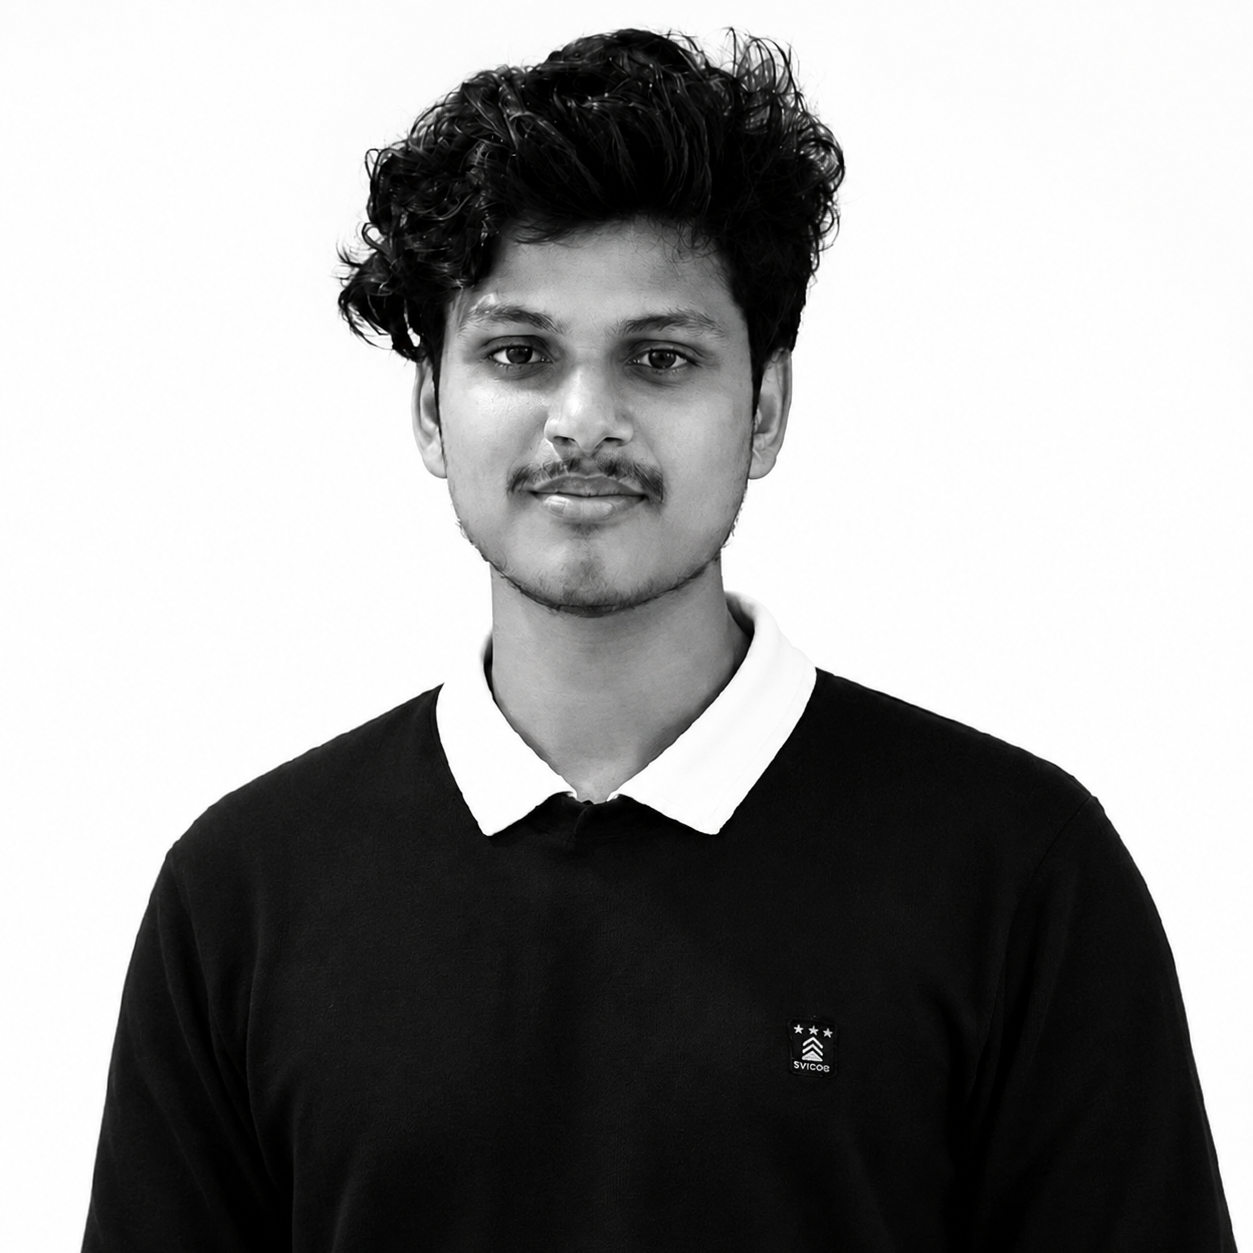
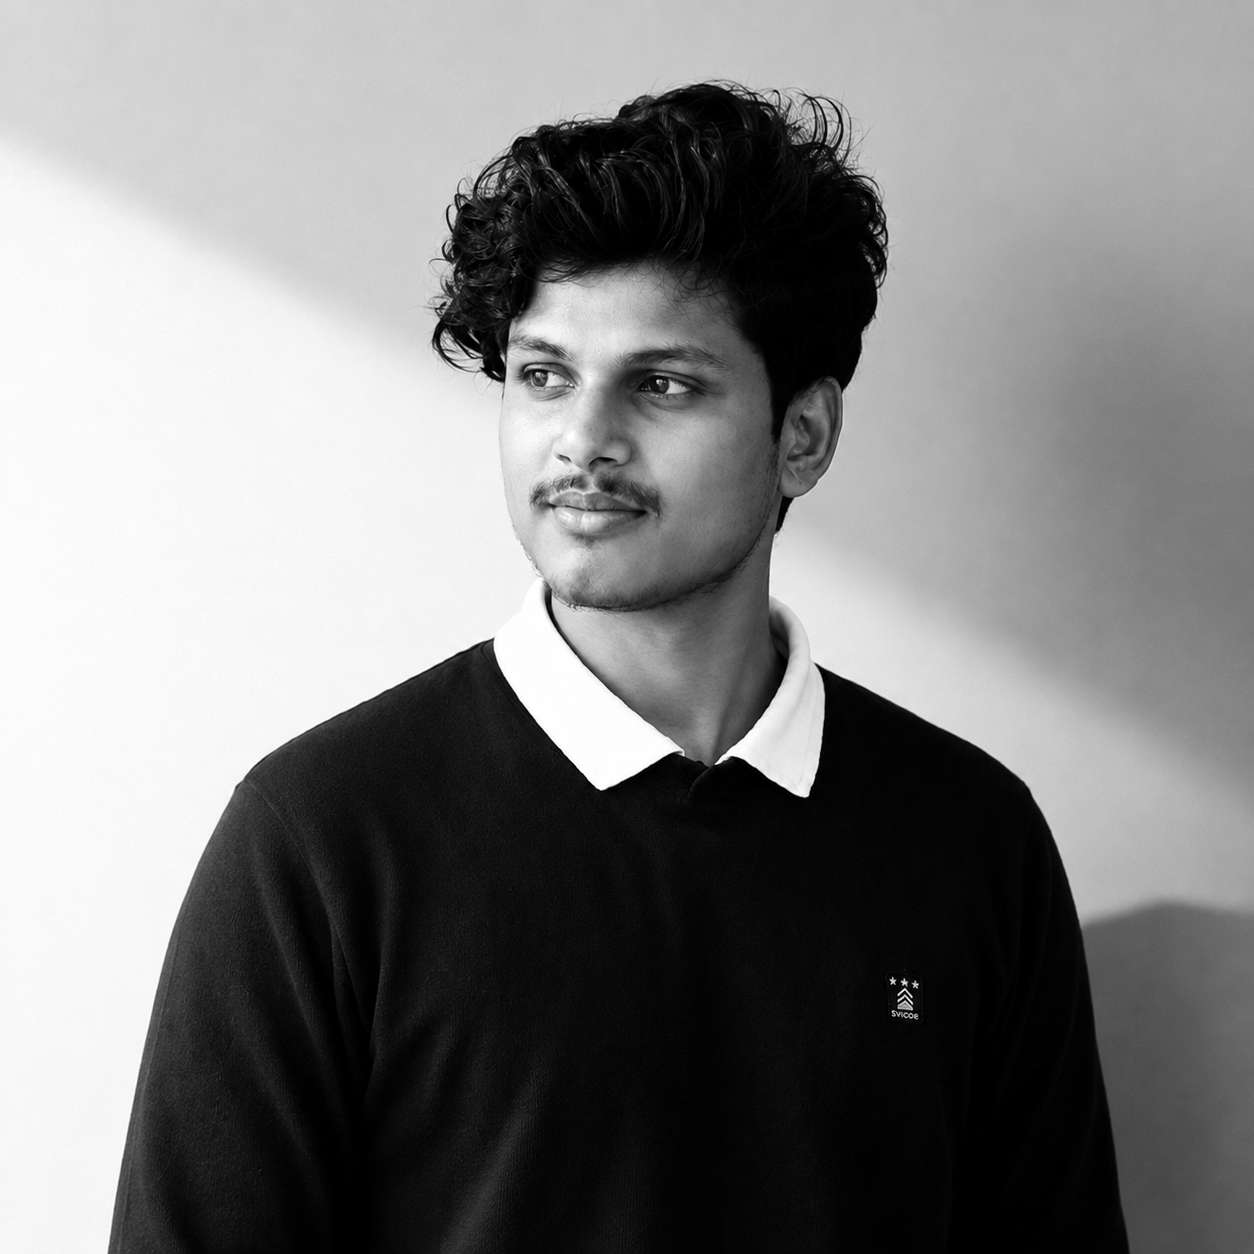
style: refine contact image frame and responsive project image sizing

diff --git a/components/ProjectSection.tsx b/components/ProjectSection.tsx
@@ -168,7 +168,7 @@ function AppFrame({ src, title, cardIndex, fromFront, isDesktop, sectionIndex }:
     <div
       className={[
         'absolute inset-0 overflow-hidden shadow-2xl border-2 border-white/10',
-        isDesktop ? 'rounded-[2.8rem]' : 'rounded-[1.8rem]',
+        isDesktop ? 'rounded-[2.2rem]' : 'rounded-[1.2rem]',
       ].join(' ')}
       style={{
         transform: stackTransform(fromFront),
@@ -179,14 +179,14 @@ function AppFrame({ src, title, cardIndex, fromFront, isDesktop, sectionIndex }:
     >
       {/* Notch */}
       <div
-        className={`absolute top-0 left-1/2 -translate-x-1/2 z-10 bg-black ${isDesktop ? 'w-[72px] h-2.5 rounded-b-2xl' : 'w-[52px] h-1.5 rounded-b-xl'
+        className={`absolute top-0 left-1/2 -translate-x-1/2 z-10 bg-black ${isDesktop ? 'w-[60px] h-2 rounded-b-xl' : 'w-[36px] h-1.5 rounded-b-lg'
           }`}
       />
       {/* Volume buttons */}
-      <div className={`absolute rounded-full bg-white/20 ${isDesktop ? '-left-2.5 top-[100px] w-1 h-9' : '-left-2 top-20 w-[3px] h-7'}`} />
-      <div className={`absolute rounded-full bg-white/20 ${isDesktop ? '-left-2.5 top-[148px] w-1 h-9' : '-left-2 top-[116px] w-[3px] h-7'}`} />
+      <div className={`absolute rounded-full bg-white/20 ${isDesktop ? '-left-2 top-[80px] w-1 h-7' : '-left-1.5 top-14 w-[2px] h-5'}`} />
+      <div className={`absolute rounded-full bg-white/20 ${isDesktop ? '-left-2 top-[120px] w-1 h-7' : '-left-1.5 top-20 w-[2px] h-5'}`} />
       {/* Power button */}
-      <div className={`absolute rounded-full bg-white/20 ${isDesktop ? '-right-2.5 top-[120px] w-1 h-13' : '-right-2 top-24 w-[3px] h-10'}`} />
+      <div className={`absolute rounded-full bg-white/20 ${isDesktop ? '-right-2 top-[100px] w-1 h-10' : '-right-1.5 top-16 w-[2px] h-6'}`} />
       {/* Screen */}
       <div className="relative w-full h-full bg-black">
         <Image
@@ -194,7 +194,7 @@ function AppFrame({ src, title, cardIndex, fromFront, isDesktop, sectionIndex }:
           alt={`${title} screenshot ${cardIndex + 1}`}
           fill
           className="object-cover object-top"
-          sizes={isDesktop ? '220px' : '28vw'}
+          sizes={isDesktop ? '200px' : '28vw'}
           priority={sectionIndex === 0 && cardIndex === 0}
         />
       </div>
@@ -209,7 +209,7 @@ function AppFrame({ src, title, cardIndex, fromFront, isDesktop, sectionIndex }:
 function WebFrame({ src, title, cardIndex, fromFront, liveUrl, isDesktop, sectionIndex }: CardProps) {
   return (
     <div
-      className={`absolute inset-0 overflow-hidden shadow-2xl ${isDesktop ? 'rounded-2xl' : 'rounded-xl'}`}
+      className={`absolute inset-0 overflow-hidden shadow-2xl ${isDesktop ? 'rounded-2xl' : 'rounded-lg'}`}
       style={{
         transform: stackTransform(fromFront),
         transformOrigin: 'bottom center',
@@ -261,21 +261,22 @@ function ImageStack({ stackRef, images, title, liveUrl, type, isDesktop, section
   const count = sliced.length;
 
   const cardW = isDesktop
-    ? (type === 'app' ? 220 : 480)
-    : (type === 'app' ? 140 : 280);
+    ? (type === 'app' ? 200 : 480)
+    : (type === 'app' ? 100 : 260);
   const cardH = isDesktop
-    ? (type === 'app' ? 440 : 320)
-    : (type === 'app' ? 280 : 180);
+    ? (type === 'app' ? 400 : 270)
+    : (type === 'app' ? 180 : 160);
 
   const peekRoom = (count - 1) * PEEK_Y;
   const containerH = cardH + peekRoom;
-  const containerW = type === 'app' ? cardW : (isDesktop ? cardW : '100%');
+  const containerW = type === 'app' ? cardW : (isDesktop ? cardW : (type === 'website' ? '300px' : '100%'));
+  const containerStyle: React.CSSProperties = { height: containerH, width: containerW };
 
   return (
     <div
       ref={stackRef}
-      className={`relative opacity-0 ${isDesktop ? 'hidden lg:block' : 'lg:hidden'}`}
-      style={{ width: containerW, height: containerH }}
+      className={`relative opacity-0 ${isDesktop ? 'hidden lg:block' : 'lg:hidden'} ${type === 'website' && !isDesktop ? 'mx-auto' : ''}`}
+      style={containerStyle}
     >
       <div
         className="absolute bottom-0 left-0 right-0"
@@ -436,59 +437,59 @@ const ProjectSection = forwardRef<HTMLDivElement, ProjectSectionProps>(
       >
         <BackgroundLayer src={images?.[0]} />
 
-        <div className="relative z-10 h-full grid grid-cols-1 lg:grid-cols-[1fr_1.1fr] px-6 py-8 sm:px-10 sm:py-12 lg:px-20 lg:py-20">
+        <div className="relative z-10 h-full grid grid-cols-1 lg:grid-cols-[1fr_1.2fr] px-4 py-6 sm:px-6 sm:py-10 lg:px-12 lg:py-16">
 
           {/* LEFT: content column */}
-          <div className="flex flex-col justify-between items-start">
+            <div className="flex flex-col gap-6 sm:gap-8">
 
-            <CategoryStrip
-              stripRef={mobileCategoryRef}
-              category={category}
-              techStack={techStack}
-              className="w-full lg:hidden"
-            />
+              <CategoryStrip
+                stripRef={mobileCategoryRef}
+                category={category}
+                techStack={techStack}
+                className="w-full lg:hidden"
+              />
 
-            {/* Title, description, links */}
-            <div className="space-y-3 sm:space-y-5 pb-4 mt-auto">
-              <p
-                ref={achievementRef}
-                className="text-white text-xs sm:text-sm leading-relaxed max-w-[340px] opacity-0"
-              >{achievement}</p>
-              <h2
-                ref={titleRef}
-                className="text-[clamp(2rem,6vw,5rem)] font-black leading-none tracking-tight text-white opacity-0"
-              >
-                {title}
-              </h2>
-              <p
-                ref={descRef}
-                className="text-white text-xs sm:text-sm leading-relaxed max-w-[340px] opacity-0"
-              >
-                {description}
-              </p>
-              <div ref={linksRef}>
-                <ProjectLinks urls={urls} type={project.type} />
+              {/* Title, description, links */}
+              <div className="space-y-3 sm:space-y-5">
+                <p
+                  ref={achievementRef}
+                  className="text-white text-xs sm:text-sm leading-relaxed max-w-[340px] opacity-0"
+                >{achievement}</p>
+                <h2
+                  ref={titleRef}
+                  className="text-[clamp(2rem,6vw,5rem)] font-black leading-none tracking-tight text-white opacity-0"
+                >
+                  {title}
+                </h2>
+                <p
+                  ref={descRef}
+                  className="text-white text-xs sm:text-sm leading-relaxed max-w-[340px] opacity-0"
+                >
+                  {description}
+                </p>
+                <div ref={linksRef}>
+                  <ProjectLinks urls={urls} type={project.type} />
+                </div>
+              </div>
+
+              {/* Mobile-only: image stack */}
+              <div className="lg:hidden w-full flex flex-col items-center">
+                <div className="max-w-[300px] mx-auto w-full">
+                  <ImageStack
+                    stackRef={mobileImageStackRef}
+                    images={images ?? []}
+                    title={title}
+                    liveUrl={urls?.live}
+                    type={project.type}
+                    isDesktop={false}
+                    sectionIndex={index}
+                  />
+                </div>
               </div>
             </div>
 
-            {/* Mobile-only: category + image stack */}
-            <div className="lg:hidden w-full flex flex-col items-center gap-4">
-
-              <ImageStack
-                stackRef={mobileImageStackRef}
-                images={images ?? []}
-                title={title}
-                liveUrl={urls?.live}
-                type={project.type}
-                isDesktop={false}
-                sectionIndex={index}
-              />
-            </div>
-
-          </div>
-
           {/* RIGHT (desktop only): category strip top, image stack bottom */}
-          <div className="hidden lg:flex b  max-w-md w-full ml-auto flex-col justify-between items-center gap-6 min-h-0">
+          <div className="hidden lg:flex w-full ml-auto flex-col justify-between items-center gap-6 min-h-0">
             <CategoryStrip
               stripRef={categoryRef}
               category={category}

diff --git a/components/Contact.tsx b/components/Contact.tsx
@@ -89,17 +89,19 @@ export default function Contact() {
           <div className="grid grid-cols-1 lg:grid-cols-[1fr_1.3fr] gap-10 lg:gap-16 items-stretch">
             {/* Left — avatar + socials */}
             <div ref={revealRef} className="c-rise flex flex-col">
-              <div className="flex-1 overflow-hidden rounded-2xl border border-white/10 bg-surface relative group">
-                <div className="absolute inset-0 bg-gradient-to-t from-black/60 via-transparent to-transparent z-10 pointer-events-none" />
-                <Image
-                  src={AVATAR}
-                  alt="Profile"
-                  width={800}
-                  height={800}
-                  draggable={false}
-                  onDragStart={(e) => e.preventDefault()}
-                  className="w-full h-full object-cover"
-                />
+              <div className="flex-1 rounded-2xl border-[5px] border-white/80 p-2 bg-white/5 relative group">
+                <div className="w-full h-full overflow-hidden rounded-xl bg-surface relative">
+                  <div className="absolute inset-0 bg-gradient-to-t from-black/60 via-transparent to-transparent z-10 pointer-events-none" />
+                  <Image
+                    src={AVATAR}
+                    alt="Profile"
+                    width={800}
+                    height={800}
+                    draggable={false}
+                    onDragStart={(e) => e.preventDefault()}
+                    className="w-full h-full object-cover transition-transform duration-700 group-hover:scale-105"
+                  />
+                </div>
               </div>
 
               <div className="c-rise mt-6 flex items-center justify-center gap-6">
